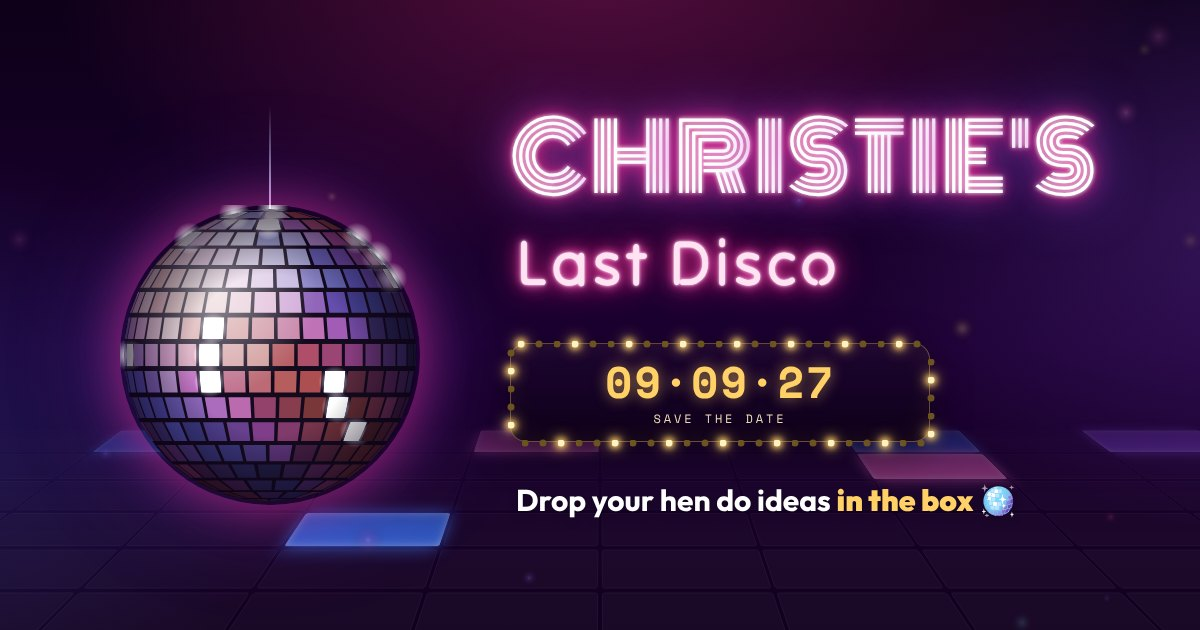
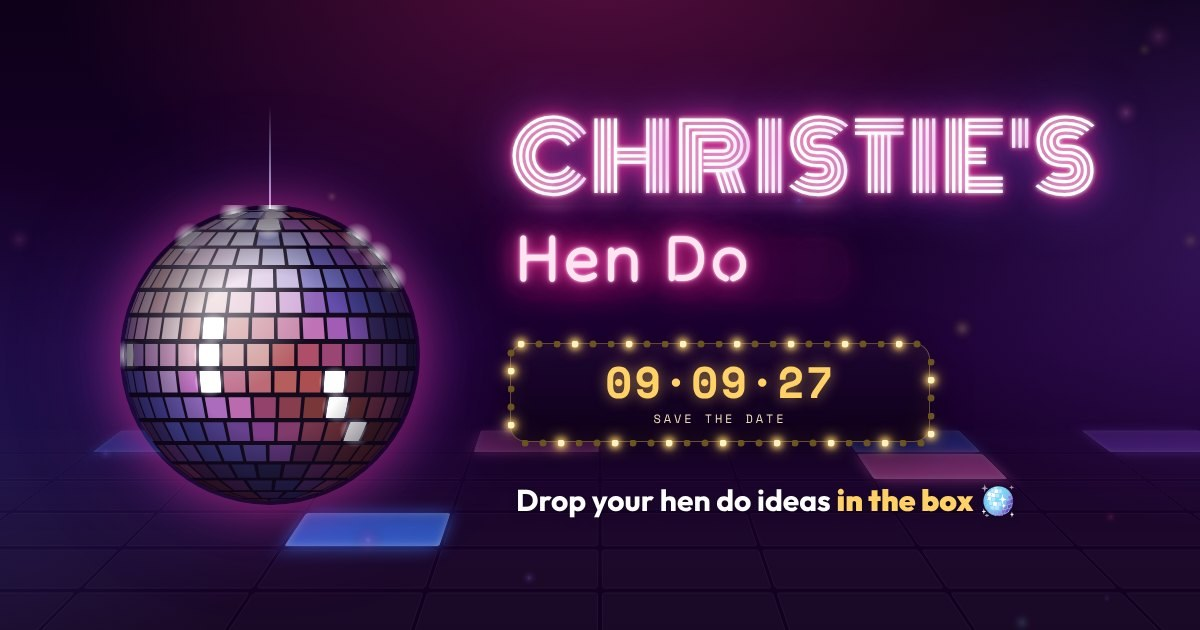
Rename to Christie's Hen Do so disco doesn't read as the chosen theme
Keeps the mirror ball and club look; swaps the name on the curtains, neon sign,
tickets, tab title and WhatsApp preview image.

Claude-Session: https://claude.ai/code/session_0182ZcZ1ZKmRDG8oczL6aA2e

Changed region(s): [[0.4008, 0.3317, 0.7092, 0.4825]]

diff --git a/index.html b/index.html
@@ -4,14 +4,14 @@
 <meta charset="utf-8">
 <meta name="viewport" content="width=device-width, initial-scale=1, viewport-fit=cover">
 <meta name="theme-color" content="#0d0018">
-<title>Christie's Last Disco · Hen Do HQ</title>
+<title>Christie's Hen Do · Croatia 09.09.27</title>
 <meta name="robots" content="noindex">
 <meta name="description" content="Five days in Croatia with the bride-to-be. The plan, the money, the playlist and the idea box. Top secret 🤫">
 <meta property="og:type" content="website">
 <meta property="og:url" content="https://hrvxf.github.io/christies-hen/">
-<meta property="og:title" content="Christie's Last Disco 🪩">
+<meta property="og:title" content="Christie's Hen Do · Croatia ☀">
 <meta property="og:description" content="Five days in Croatia. Everything you need, plus the idea box 🤫">
-<meta property="og:image" content="https://hrvxf.github.io/christies-hen/og.jpg">
+<meta property="og:image" content="https://hrvxf.github.io/christies-hen/og.jpg?v=2">
 <meta property="og:image:width" content="1200">
 <meta property="og:image:height" content="630">
 <meta name="twitter:card" content="summary_large_image">
@@ -449,7 +449,7 @@ a.cta{text-align:center;text-decoration:none}
   <div class="ent-inner">
     <div class="ent-kicker">You're on the guest list</div>
     <div class="ent-title">CHRISTIE'S</div>
-    <div class="ent-sub">Last Disco</div>
+    <div class="ent-sub">Hen Do</div>
     <button class="enter" id="enterBtn" type="button">Tap to enter 🪩</button>
     <p class="ent-note">🔊 Sound up, ladies</p>
   </div>
@@ -478,7 +478,7 @@ a.cta{text-align:center;text-decoration:none}
 
     <div class="kicker">Welcome to</div>
     <h1 class="sign" id="title" aria-label="Christie's"></h1>
-    <p class="tube">Last Disco</p>
+    <p class="tube">Hen Do</p>
 
     <div class="marquee" id="marquee">
       <div class="days" id="days">—</div>
@@ -507,7 +507,7 @@ a.cta{text-align:center;text-decoration:none}
       </nav>
     </div>
 
-    <p class="sitefoot">Questions? Give Adam a shout in the group chat 💬<br>Christie's Last Disco · 09.09.27</p>
+    <p class="sitefoot">Questions? Give Adam a shout in the group chat 💬<br>Christie's Hen Do · Croatia · 09.09.27</p>
   </section>
 
   <section class="screen page" id="pg-news" aria-labelledby="newsH">
@@ -835,7 +835,7 @@ a.cta{text-align:center;text-decoration:none}
       <div class="paper" id="paper">
         <div class="ticket" id="ticket">
           <div class="t-main">
-            <div class="t-top"><span>CHRISTIE'S LAST DISCO</span><span>09·09·27</span></div>
+            <div class="t-top"><span>CHRISTIE'S HEN DO</span><span>09·09·27</span></div>
             <div class="t-idea" id="tIdea"></div>
             <div class="t-meta" id="tMeta"></div>
             <div class="t-row"><span><span id="tBy">Dropped by</span> <b id="tName"></b></span><span class="t-hype" id="tHype"></span></div>
@@ -1198,7 +1198,7 @@ $('#ballRig').addEventListener('click', () => {
 function setCrispy(v){
   crispy = v; document.body.classList.toggle('crispy', v);
   if(v){ toast('🍸 Crispy mode unlocked. One Bombay Sapphire & tonic, coming right up.'); bubbles(40); Sound.fizz(); }
-  else toast('🪩 Back to the disco');
+  else toast('🪩 Back to the party');
 }
 function bubbles(n){
   if(reduced) return;
@@ -1578,7 +1578,7 @@ food.addEventListener('submit', async e => {
 /* ================= PLAYLIST ================= */
 // Tapping into the Spotify player turns the disco music off so the two don't clash.
 addEventListener('blur', () => setTimeout(() => {
-  if(document.activeElement === $('#spotify') && Sound.on){ Sound.stop(); userMuted = true; paintSound(); toast('🎶 Disco music off so you can hear the playlist'); }
+  if(document.activeElement === $('#spotify') && Sound.on){ Sound.stop(); userMuted = true; paintSound(); toast('🎶 Party music off so you can hear the playlist'); }
 }, 0));
 
 /* ================= PRESS EFFECTS ================= */
